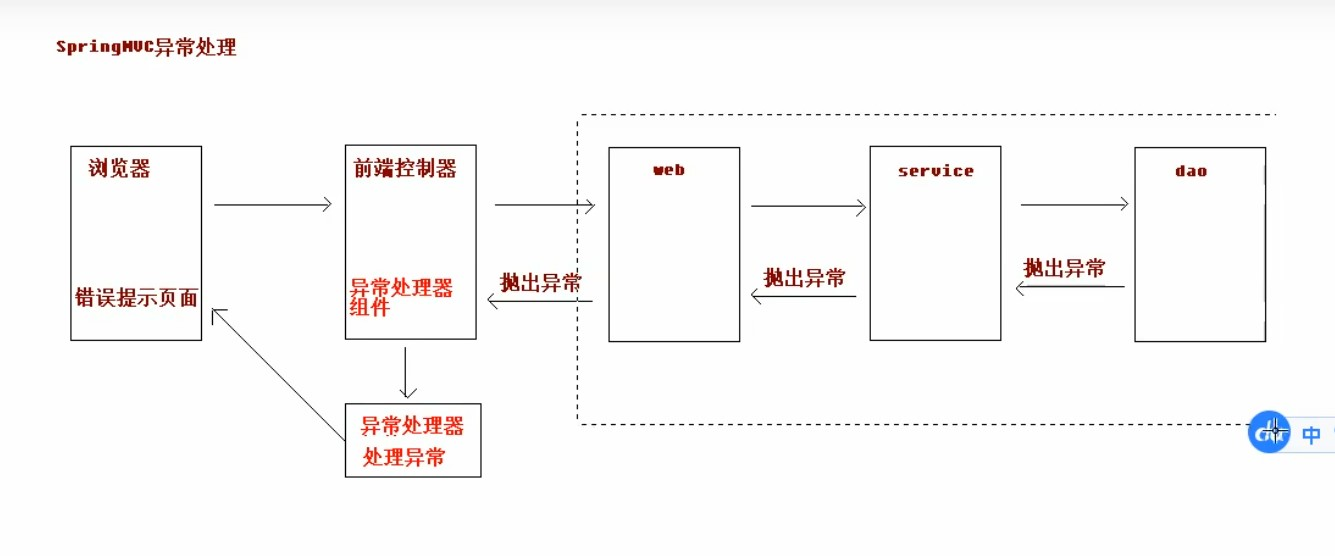
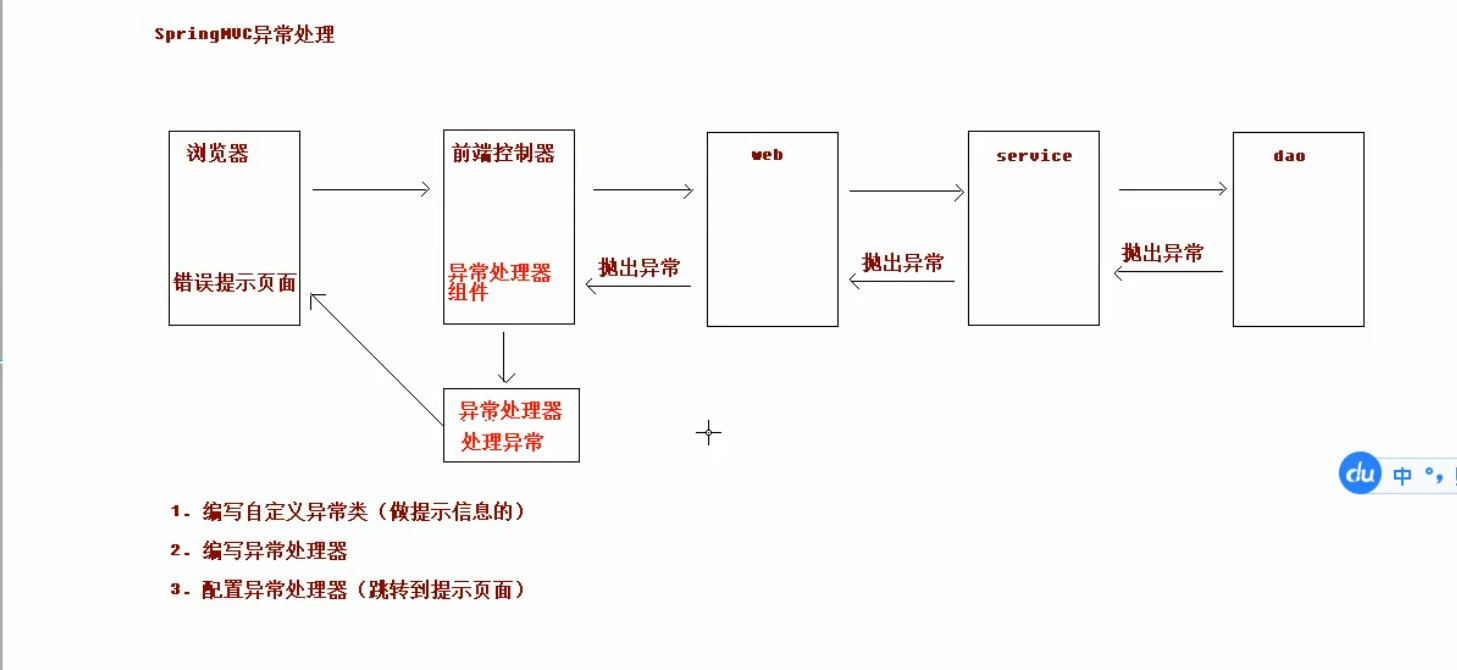
f

diff --git a/src/main/java/cn/hj/controller/UserController.java b/src/main/java/cn/hj/controller/UserController.java
@@ -1,43 +1,30 @@
 package cn.hj.controller;
 
-import com.sun.jersey.api.client.Client;
-import com.sun.jersey.api.client.WebResource;
-import org.apache.commons.fileupload.FileItem;
-import org.apache.commons.fileupload.disk.DiskFileItemFactory;
-import org.apache.commons.fileupload.servlet.ServletFileUpload;
 
+import cn.hj.exception.SysException;
 import org.springframework.stereotype.Controller;
 import org.springframework.web.bind.annotation.RequestMapping;
-import org.springframework.web.multipart.MultipartFile;
-
-import javax.servlet.http.HttpServletRequest;
-import java.io.File;
-import java.util.List;
-import java.util.UUID;
 
 @Controller
 @RequestMapping("/user")
 public class UserController {
-//    SpringMVC文件上传
-    @RequestMapping("fileUpload2")
-    public String fileUpload2( MultipartFile upload){
 
-        //定义上传文件服务器路径
-        String path = "http://localhost:9090/uploads/"；
+    @RequestMapping("testException")
+    public String testException() throws Exception{
+        /**
+         * 1. 对某些语句写if,if...else,do/while,try...catch等话：选中这段话，然后ctrl+alt+t
+         */
 
+        //模拟异常
+        try {
+            int a = 10/0;
+        } catch (Exception e) {
+            //下一行代码表示，在控制台打印异常信息
+            e.printStackTrace();
 
-         String filename = upload.getOriginalFilename();
-         String uuid = UUID.randomUUID().toString().replace("-","");
-         filename = uuid+"_"+filename;
-
-        //创建客户端的对象
-        Client client = Client.create();
-
-        //和图片服务器进行连接
-        WebResource webResource = client.resource(path+filename);
-
-        //上传文件
-        webResource.put(upload.getBytes());
+            //向上抛出自定义异常信息
+            throw  new SysException("查询所有用户出现错误了...");
+        }
 
         return "success";
     }

diff --git a/src/main/java/cn/hj/exception/SysExceptionResolver.java b/src/main/java/cn/hj/exception/SysExceptionResolver.java
@@ -1,0 +1,44 @@
+package cn.hj.exception;
+
+
+import org.springframework.web.servlet.HandlerExceptionResolver;
+import org.springframework.web.servlet.ModelAndView;
+
+import javax.servlet.http.HttpServletRequest;
+import javax.servlet.http.HttpServletResponse;
+import javax.xml.ws.handler.HandlerResolver;
+
+/**
+ * 异常处理器
+ *
+ * 1. implements HandlerExceptionResolver 继承这个类的时候，要实现它里面的方法。这个时候鼠标移到这句话上，然后，ctrl+Enter 就出来提示了
+ */
+public class SysExceptionResolver implements HandlerExceptionResolver {
+
+
+    /**
+     * 处理异常业务逻辑
+     * @param request   ： 请求
+     * @param response   ： 响应
+     * @param handler    ：当前处理器这个对象，我们用的很少
+     * @param ex          ：这个很重要，当前抛出的异常对象。就是UserController中的    throw  new SysException("查询所有用户出现错误了..."); 中的SysException对象
+     * @return
+     */
+    @Override
+    public ModelAndView resolveException(HttpServletRequest request, HttpServletResponse response, Object handler, Exception ex) {
+//       获取到异常对象
+       SysException e = null;
+       if(ex instanceof  SysException){
+           e = (SysException)ex;
+       }else{
+           e = new SysException("系统正在维护...");
+       }
+
+//       创建ModelAndView对象
+        ModelAndView mv = new ModelAndView();
+       mv.addObject("errorMsg",e.getMessage()); //e.getMessage() ->  就是获取UserController中的    throw  new SysException("查询所有用户出现错误了..."); 中的”查询所有用户出现错误了...“这几个信息文字
+        mv.setViewName("error"); //跳到error页面
+
+        return null;
+    }
+}

diff --git a/src/main/java/cn/hj/exception/SysException.java b/src/main/java/cn/hj/exception/SysException.java
@@ -1,0 +1,22 @@
+package cn.hj.exception;
+
+/**
+ *自定义异常类
+ */
+public class SysException extends  Exception{
+    //存储提示信息的
+    private String message;
+
+    @Override
+    public String getMessage() {
+        return message;
+    }
+
+    public void setMessage(String message) {
+        this.message = message;
+    }
+
+    public SysException(String message) {
+        this.message = message;
+    }
+}
